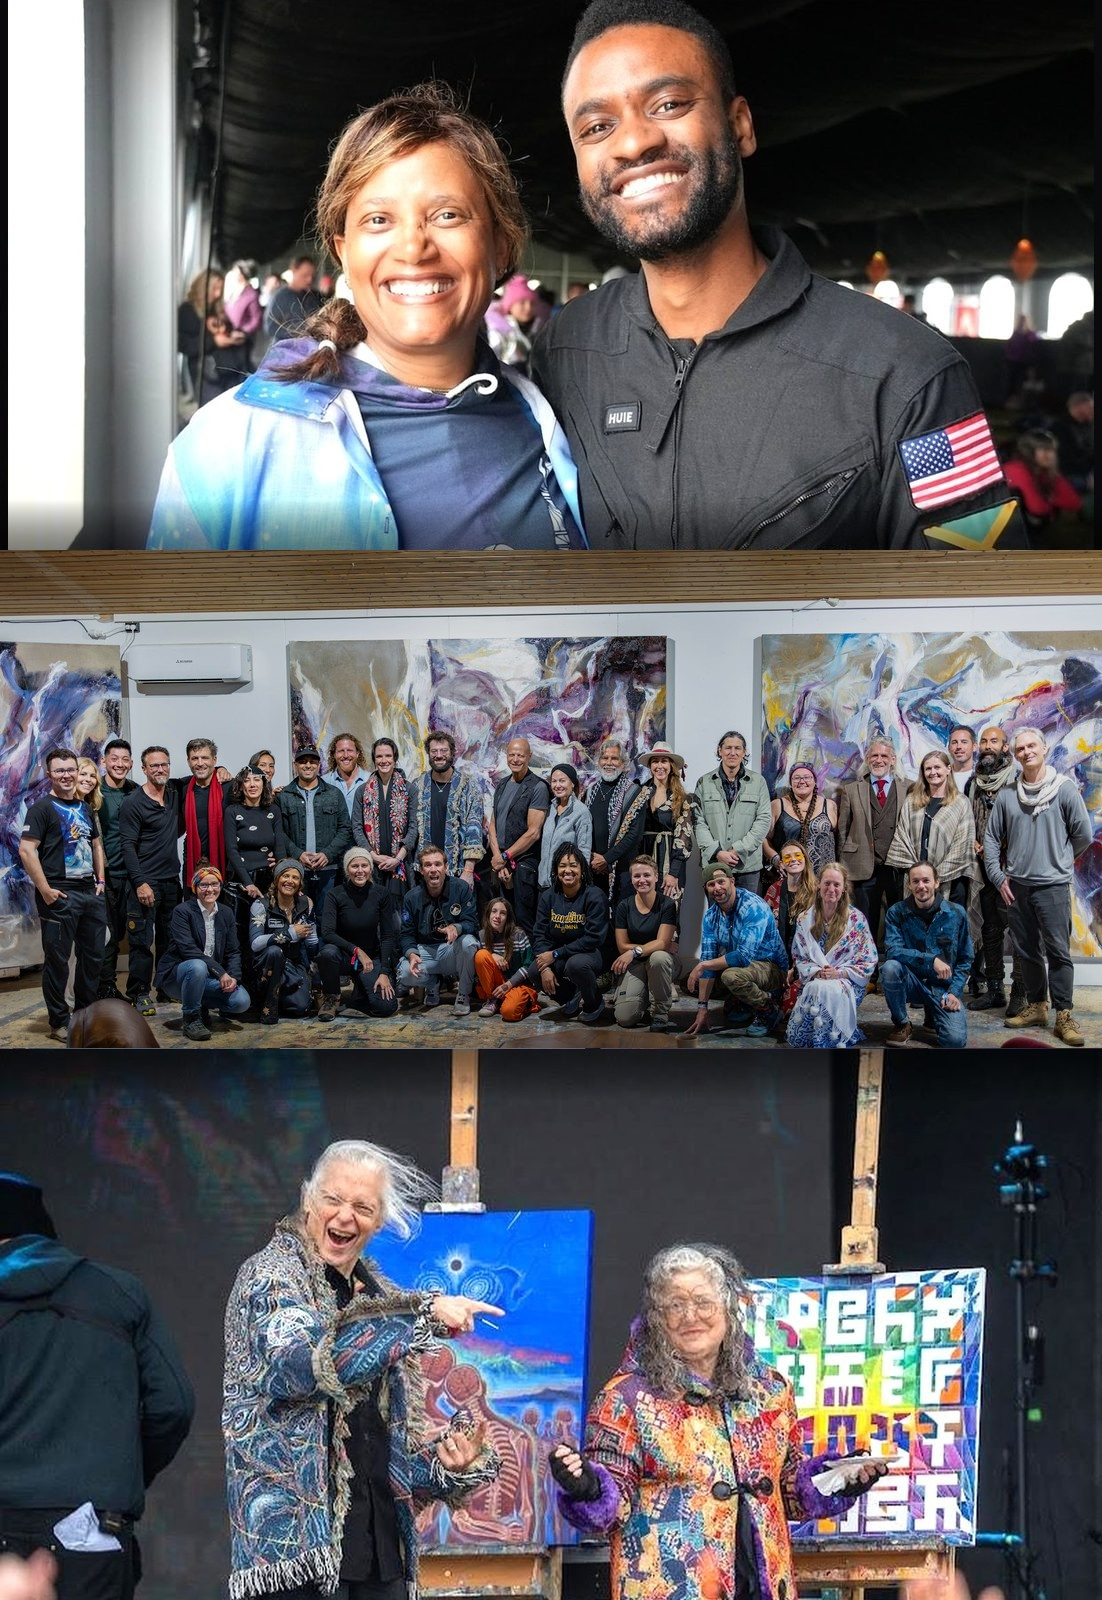
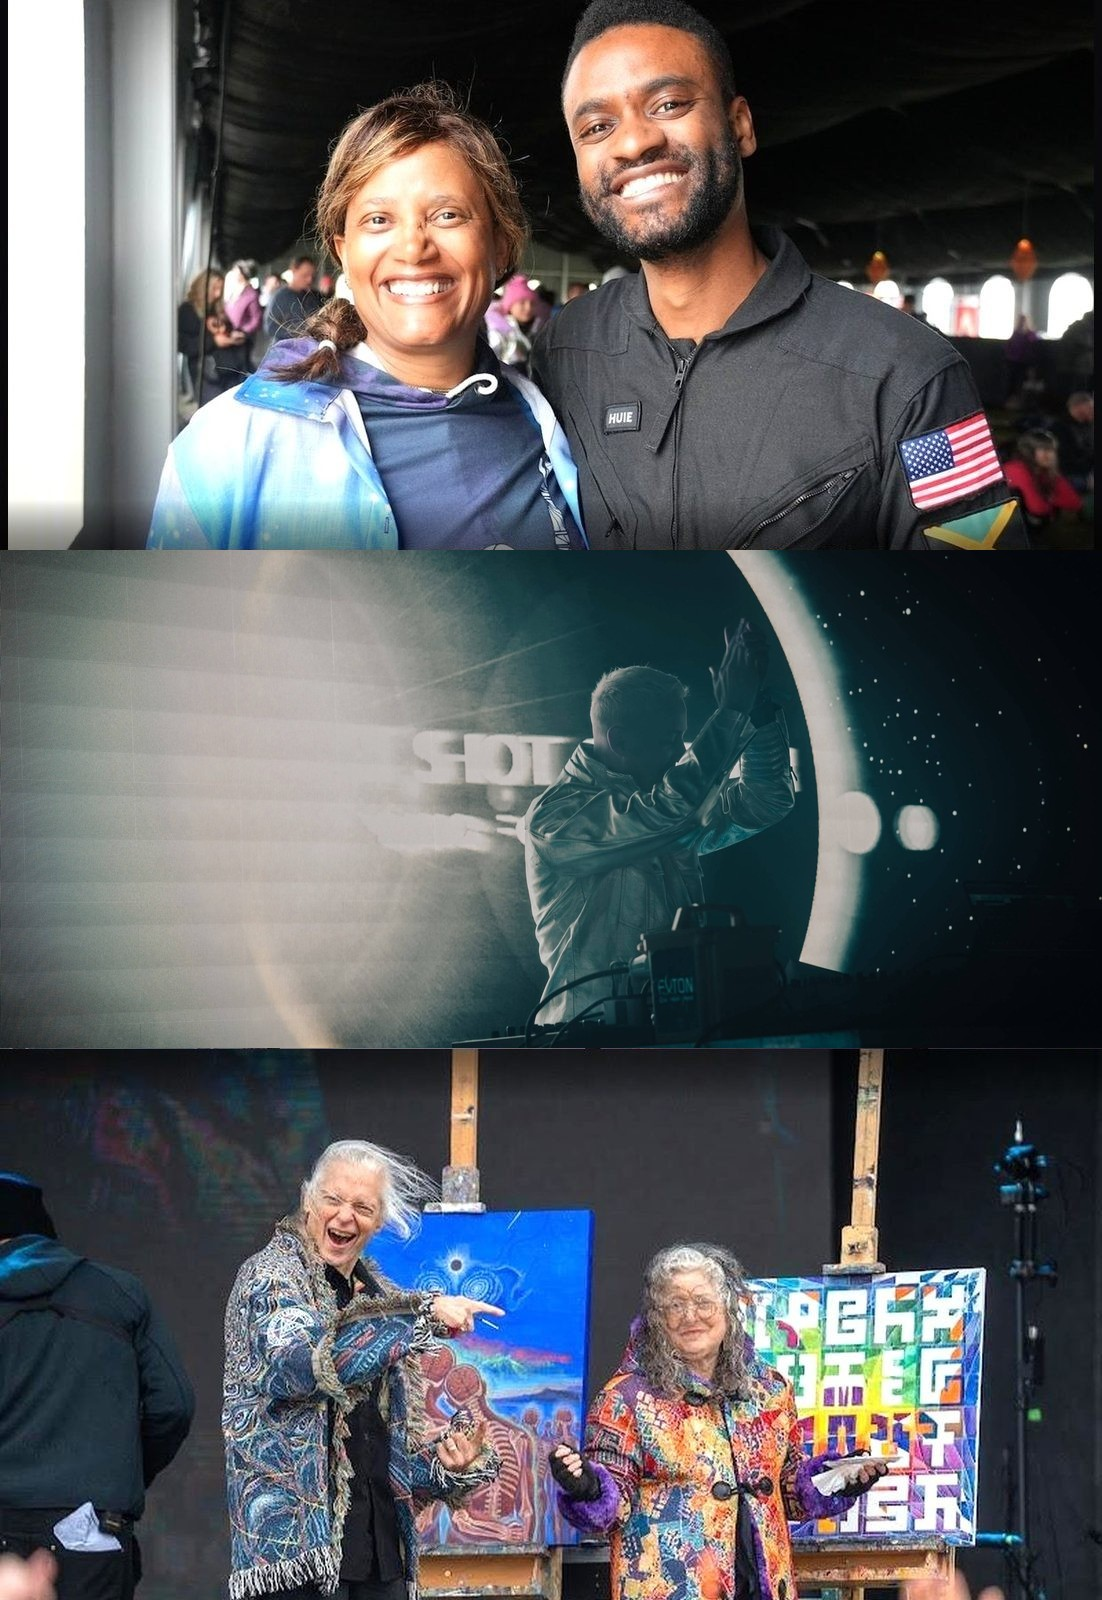
The swap Mitch asked for in the thread
His 'with this' was a reply on the eclipse-ring photo, which I had missed, and it
resolves both open items at once.

- Our Community: the eclipse-ring photo replaces the art studio group portrait in
  the collage, brightness matched to its neighbours so the seams stay soft.
- Programming: back to the clip the music comes from as the background, playing
  with its own sound, which is where it stood before the ring photo went in. The
  separate audio loop is no longer needed.

Changed region(s): [[0.0, 0.3438, 1.0, 0.6562]]

diff --git a/index.html b/index.html
@@ -624,15 +624,14 @@
           <div class="tile"><div class="n">53/47</div><div class="l">Male / female split</div></div>
         </div>
       </div>
-      <div class="accent commcollage"><img src="assets/community.jpg" alt="Iceland Eclipse community: Dr. Sian Proctor with astronaut Huie, the artists group portrait in the studio, and Alex and Allyson Grey on stage"/></div>
+      <div class="accent commcollage"><img src="assets/community.jpg" alt="Iceland Eclipse community: Dr. Sian Proctor with astronaut Huie, a performer before the eclipse ring, and Alex and Allyson Grey on stage"/></div>
     </div></div>
     <div class="sfoot"><span>Iceland Eclipse 2026 · Recap</span><span>07</span></div>
   </section>
 
   <!-- 8 · PROGRAMMING -->
   <section class="slide gslide underbg programming nobrand">
-    <div class="softphoto"><img src="assets/programming-ring.jpg" alt=""/></div>
-    <audio class="bgaud" src="assets/programming-audio.m4a" loop preload="none"></audio>
+    <div class="softphoto"><video class="bgvid" src="assets/numbers-bg.mp4" poster="assets/numbers-bg.jpg" muted loop playsinline preload="none" aria-hidden="true"></video></div>
     <div class="pad"><div class="split" style="grid-template-columns:1.04fr .96fr;gap:4.5%">
       <div class="content">
         <div class="eyebrow">Diverse, Intentional Programming</div>
